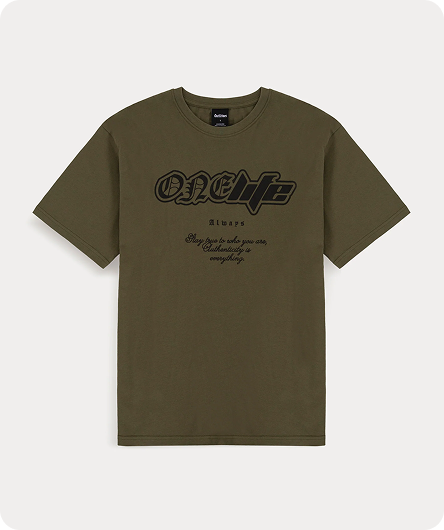
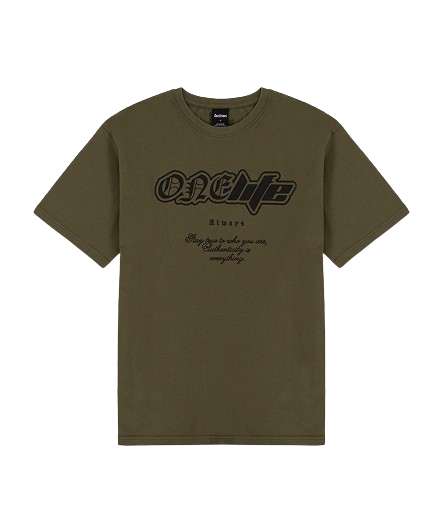
remove the background for the images

diff --git a/js/products.js b/js/products.js
@@ -8,7 +8,7 @@ export const products = [
     oldPrice: 180,
     rating: 4.5,
     reviewCount: 120,
-    images: ["/assets/images/products/tshirt-tape-details-black.jpg"],
+    images: ["/assets/images/products/tshirt-tape-details-black.png"],
     description: "Comfortable cotton t-shirt with modern tape details with cushion fabric for soft feeling and quality, made from VV cushion fabrics.",
     tags: ["new-arrival"],
   },
@@ -21,7 +21,7 @@ export const products = [
     oldPrice: 260,
     rating: 3.5,
     reviewCount: 98,
-    images: ["/assets/images/products/skinny-fit-jeans-blue.jpg"],
+    images: ["/assets/images/products/skinny-fit-jeans-blue.png"],
     description: "Stretchy skinny jeans for everyday wear.",
     tags: ["new-arrival"],
   },
@@ -34,7 +34,7 @@ export const products = [
     oldPrice: null,
     rating: 4.5,
     reviewCount: 210,
-    images: ["/assets/images/products/checked-shirt-red.jpg"],
+    images: ["/assets/images/products/checked-shirt-red.png"],
     description: "Classic checkered shirt with a relaxed fit.",
     tags: ["new-arrival"],
   },
@@ -47,7 +47,7 @@ export const products = [
     oldPrice: 160,
     rating: 4.0,
     reviewCount: 75,
-    images: ["/assets/images/products/sleeve-striped-tshirt-orange.jpg"],
+    images: ["/assets/images/products/sleeve-striped-tshirt-orange.png"],
     description: "Stylish striped sleeve t-shirt.",
     tags: ["new-arrival"],
   },
@@ -86,7 +86,7 @@ export const products = [
     oldPrice: 100,
     rating: 3.0,
     reviewCount: 42,
-    images: ["/assets/images/products/loose-fit-bermuda-blue.jpg"],
+    images: ["/assets/images/products/loose-fit-bermuda-blue.png"],
     description: "Lightweight loose fit shorts.",
     tags: ["top-selling"],
   },
@@ -112,7 +112,7 @@ export const products = [
     oldPrice: null,
     rating: 3.5,
     reviewCount: 90,
-    images: ["/assets/images/products/gradient-graphic-tshirt.jpg"],
+    images: ["/assets/images/products/gradient-graphic-tshirt.png"],
     description: "Gradient print graphic tee.",
     tags: [],
   },

diff --git a/index.html b/index.html
@@ -3,9 +3,9 @@
     <head>
       <meta charset="UTF-8" />
       <meta name="viewport" content="width=device-width, initial-scale=1.0" />
-      <title>cart.co</title>
-
       <title>SHOP.CO</title>
+
+      
       <!-- =============== FONT AWESOME CDN ================ -->
       <link
         rel="stylesheet"
